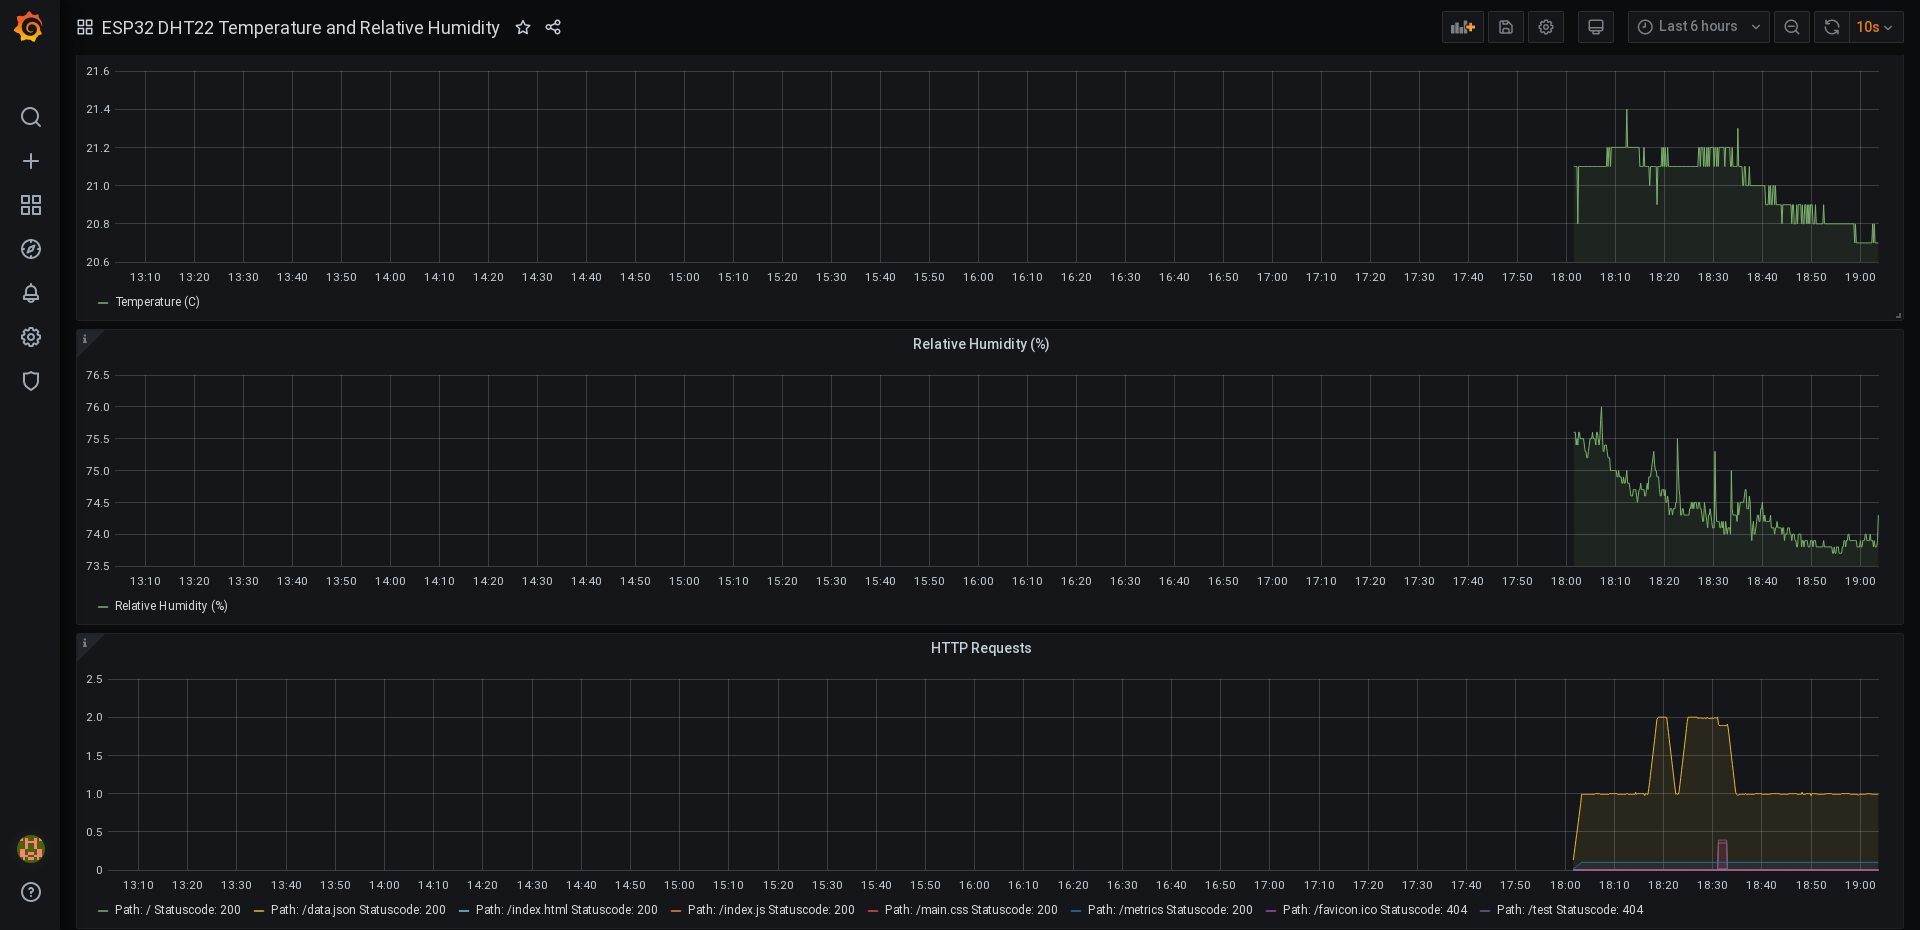
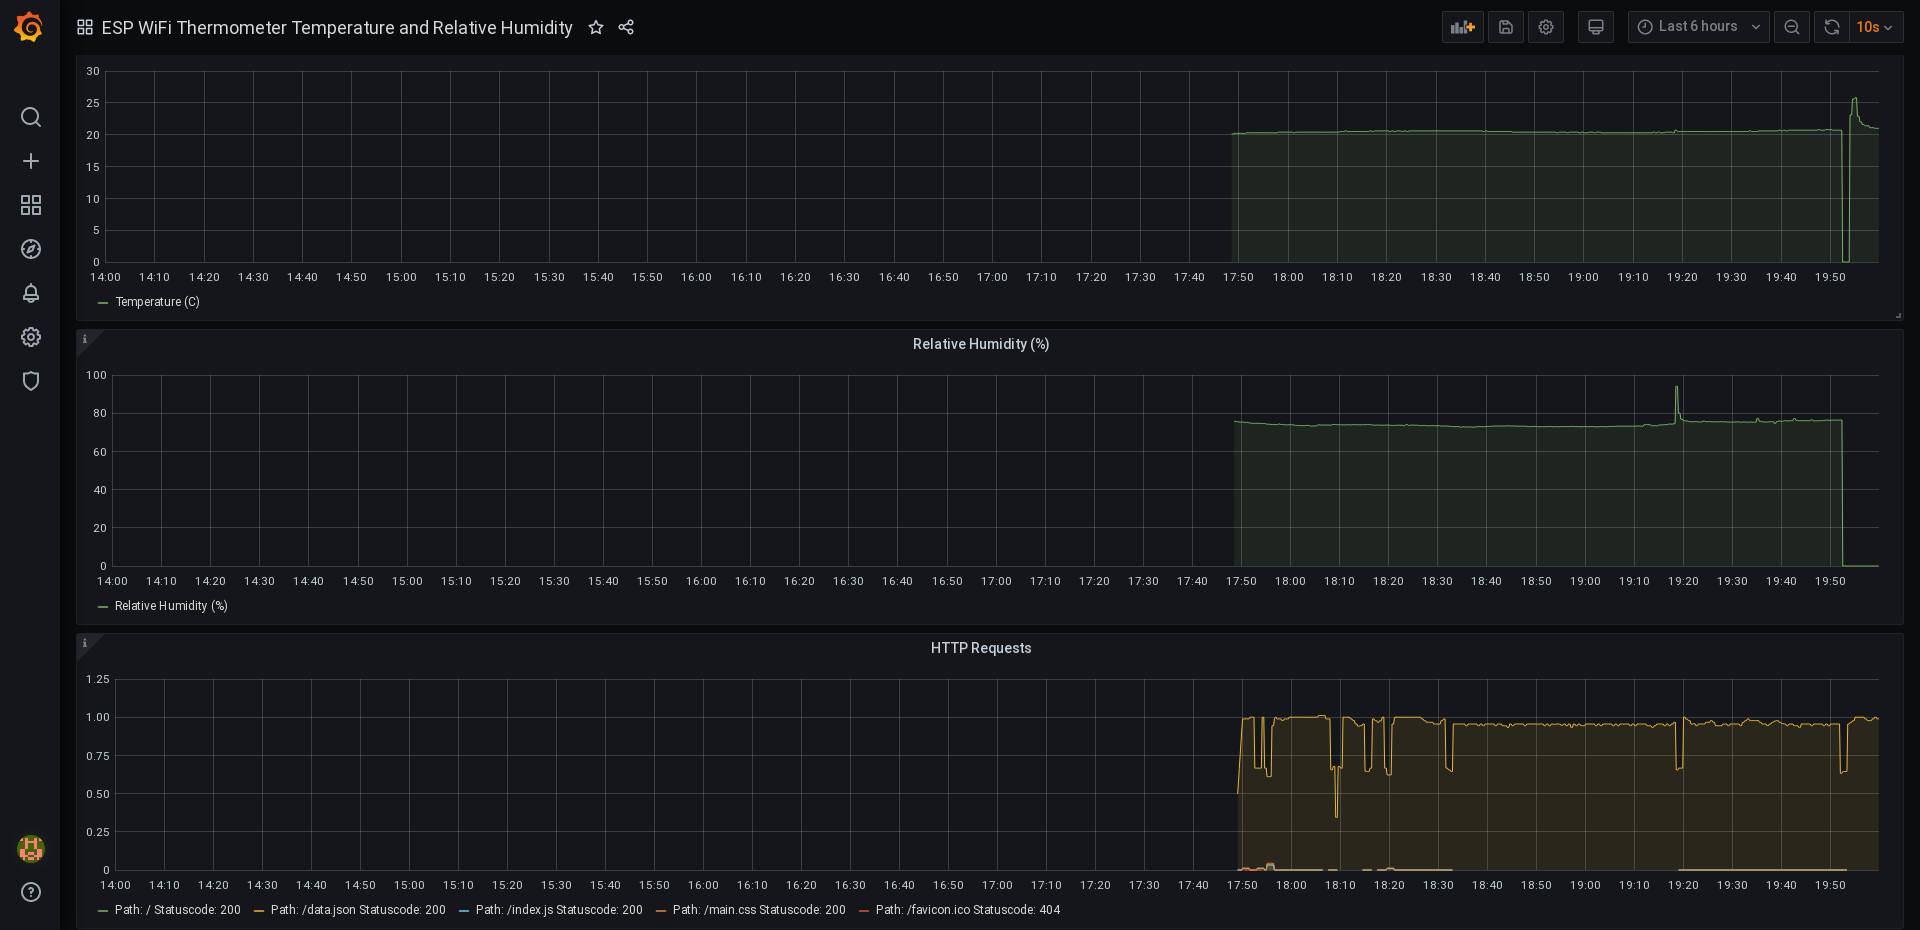
Rename to ESP-WiFi-Thermomether and add DS18B20 support

diff --git a/src/html/index.html b/src/html/index.html
@@ -3,15 +3,17 @@
 <head>
 <meta charset="utf-8">
 <meta name="author" content="ToMe25">
-<title>ESP32 DHT22 Server</title>
+<title>ESP WiFi Thermometer</title>
 <link rel="stylesheet" type="text/css" href="main.css">
 <script type="text/javascript" src="index.js"></script>
 </head>
 <body>
 	<div class="main">
-		<h1>Temperature: <span id="temp">$temp</span>°C</h1>
-		<h1>Humidity: <span id="humid">$humid</span>%</h1>
-		<h1>Time since Measurement: <time id="time" datetime=$time>$time</time></h1>
+		<h1>ESP WiFi Thermometer</h1>
+		<hr />
+		<h3>Temperature: <span id="temp">$temp</span>°C</h3>
+		<h3>Humidity: <span id="humid">$humid</span>%</h3>
+		<h3>Time since Measurement: <time id="time" datetime=$time>$time</time></h3>
 	</div>
 </body>
 </html>

diff --git a/src/html/main.css b/src/html/main.css
@@ -12,3 +12,12 @@ body {
 	margin: 5% 0;
 	font-size: 2em;
 }
+
+h1 {
+	margin: 0.3em 0;
+}
+
+h3 {
+	color: #3F3F48;
+	margin: 0.3em 0;
+}

diff --git a/src/main.cpp b/src/main.cpp
@@ -20,7 +20,12 @@
 IPAddress localhost = STATIC_IP;
 IPv6Address localhost_ipv6;
 AsyncWebServer server(WEB_SERVER_PORT);
-DHT dht(DHT_PIN, DHT_TYPE);
+#if SENSOR_TYPE == SENSOR_TYPE_DHT
+DHT dht(SENSOR_PIN, DHT_TYPE);
+#elif SENSOR_TYPE == SENSOR_TYPE_DALLAS
+OneWire wire(SENSOR_PIN);
+DallasTemperature sensors(&wire);
+#endif
 float temperature = 0;
 float humidity = 0;
 uint64_t last_measurement = 0;
@@ -31,7 +36,12 @@ uint64_t start = 0;
 void setup() {
 	start = millis();
 	Serial.begin(115200);
+
+#if SENSOR_TYPE == SENSOR_TYPE_DHT
 	dht.begin();
+#elif SENSOR_TYPE == SENSOR_TYPE_DALLAS
+	sensors.begin();
+#endif
 
 	setupWiFi();
 #if ENABLE_ARDUINO_OTA == 1
@@ -251,12 +261,17 @@ uint16_t getJson(AsyncWebServerRequest *request) {
 bool handle_serial_input(std::string input) {
 	if (input == "temperature" || input == "temp") {
 		Serial.println();
-		Serial.printf("Temperature: %f°C, %f°F\n", temperature,
-				dht.convertCtoF(temperature));
+		Serial.print("Temperature: ");
+		Serial.print(temperature);
+		Serial.print("°C, ");
+		Serial.print(celsiusToFahrenheit(temperature));
+		Serial.println("°F");
 		return true;
 	} else if (input == "humidity") {
 		Serial.println();
-		Serial.printf("Relative Humidity: %f%%\n", humidity);
+		Serial.print("Relative humidity: ");
+		Serial.print(humidity);
+		Serial.println('%');
 		return true;
 	} else if (input == "ip") {
 		Serial.println();
@@ -273,7 +288,7 @@ bool handle_serial_input(std::string input) {
 		return true;
 	} else if (input == "help") {
 		Serial.println();
-		Serial.println("ESP32-DHT22 help:");
+		Serial.println("ESP-WiFi-Thermometer help:");
 		Serial.println("temperature (or temp): Prints the last measured temperature in °C and °F.");
 		Serial.println("humidity:              Prints the relative humidity in %.");
 		Serial.println("ip:                    Prints the current IPv4 and IPv6 address of this device.");
@@ -294,10 +309,14 @@ void loop() {
 		if (loop_iterations % 20 == 0 && millis() - last_measurement < 10000) {
 			Serial.print("Temperature: ");
 			Serial.print(temperature);
-			Serial.println("°C");
-			Serial.print("Humidity: ");
-			Serial.print(humidity);
-			Serial.println('%');
+			Serial.print("°C, ");
+			Serial.print(celsiusToFahrenheit(temperature));
+			Serial.println("°F");
+			if (humidity != 0) {
+				Serial.print("Humidity: ");
+				Serial.print(humidity);
+				Serial.println('%');
+			}
 		}
 	}
 
@@ -341,10 +360,11 @@ void loop() {
 
 	loop_iterations++;
 	uint64_t end = millis();
-	delay(max(0, 500 - int16_t(start - end)));
+	delay(max(0, 500 - int16_t(end - start)));
 }
 
 void measure() {
+#if SENSOR_TYPE == SENSOR_TYPE_DHT
 	float temp = dht.readTemperature();
 	if (!isnan(temp)) {
 		temperature = temp;
@@ -358,6 +378,14 @@ void measure() {
 	if (!isnan(temp) && !isnan(humid)) {
 		last_measurement = millis();
 	}
+#elif SENSOR_TYPE == SENSOR_TYPE_DALLAS
+	sensors.requestTemperatures();
+	float temp = sensors.getTempCByIndex(0);
+	if (temp != DEVICE_DISCONNECTED_C) {
+		temperature = temp;
+		last_measurement = millis();
+	}
+#endif
 }
 
 #if ENABLE_WEB_SERVER == 1
@@ -396,3 +424,7 @@ void registerStaticHandler(const char *uri, const char *content_type,
 			});
 }
 #endif /* ENABLE_WEB_SERVER */
+
+float celsiusToFahrenheit(float celsius) {
+	return celsius * 1.8 + 32;
+}

diff --git a/src/config.h b/src/config.h
@@ -18,7 +18,7 @@
 // The hostname with which the esp can be reached.
 // This value is used for both the actual hostname, as well as the mDNS hostname(mDNS names end with .local).
 // While the normal hostname doesn't work with a static IP, mDNS still works.
-static constexpr char HOSTNAME[] = "esp32-dht22";
+static constexpr char HOSTNAME[] = "esp-wifi-thermometer";
 // The WiFi gateway IP.
 // Set to INADDR_NONE to use the standard gateway of the WLAN.
 // Usually your router.
@@ -32,19 +32,27 @@ static const IPAddress SUBNET = INADDR_NONE;
 static const IPAddress STATIC_IP = INADDR_NONE;
 
 // Web Server options
-// Whether or not to enable the web server on the esp32.
+// Whether or not to enable the web server on the esp.
 // Set to 1 to enable and to 0 to disable.
 #define ENABLE_WEB_SERVER 1
 // The port on which to open the web server that shows the measurements.
 // The default web server port is 80.
 static const uint16_t WEB_SERVER_PORT = 80;
 
-// DHT options
+// Sensor options
+// Valid sensor types
+#define SENSOR_TYPE_DHT 1
+#define SENSOR_TYPE_DALLAS 2
+// The type of sensor in use.
+// Supported values: SENSOR_TYPE_DHT and SENSOR_TYPE_DALLAS.
+#define SENSOR_TYPE SENSOR_TYPE_DHT
 // The type of DHT sensor in use.
+// Only used if SENSOR_TYPE is SENSOR_TYPE_DHT.
 // Valid types are 11, 12, 21, and 22.
 static const uint8_t DHT_TYPE = 22;
-// The gpio pin to which the data pin of the DHT is connected.
-static const uint8_t DHT_PIN = 5;
+// The gpio pin to which the data pin of the sensor is connected.
+// Default is 5.
+static const uint8_t SENSOR_PIN = 5;
 
 // Arduino OTA options
 // Whether to enable the Arduino OTA server.

diff --git a/src/main.h b/src/main.h
@@ -13,6 +13,9 @@
 
 #include "config.h"
 #include <ESPAsyncWebServer.h>
+// It would be possible to always only include one, but that makes it a pain when switching between them.
+// Especially when doing it repeatedly for testing.
+#include <DallasTemperature.h>
 #include <DHT.h>
 
 // includes the content of the file "wifissid.txt" in the project root.
@@ -39,8 +42,13 @@ extern IPv6Address localhost_ipv6;
 // Web Server variables
 extern AsyncWebServer server;
 
-//DHT22 variables
+//Sensor variables
+#if SENSOR_TYPE == SENSOR_TYPE_DHT
 extern DHT dht;
+#elif SENSOR_TYPE == SENSOR_TYPE_DALLAS
+extern OneWire wire;
+extern DallasTemperature sensors;
+#endif
 
 extern float temperature;
 extern float humidity;
@@ -122,5 +130,13 @@ void registerRequestHandler(const char *uri, WebRequestMethodComposite method,
 void registerStaticHandler(const char *uri, const char *content_type,
 		const char *page);
 #endif /* ENABLE_WEB_SERVER */
+
+/**
+ * Converts the given temperature from degrees celsius to degrees fahrenheit.
+ *
+ * @param celsius	The temperature to convert in celsius.
+ * @return	The converted temperature in fahrenheit.
+ */
+float celsiusToFahrenheit(float celsius);
 
 #endif /* SRC_MAIN_H_ */

diff --git a/src/prometheus.cpp b/src/prometheus.cpp
@@ -61,17 +61,17 @@ void prom::connect() {
 
 std::string prom::getMetrics() {
 	std::ostringstream metrics;
-	metrics << "# HELP environment_temperature The current external temperature measured using a DHT22."
+	metrics << "# HELP environment_temperature The current measured external temperature in degrees celsius."
 			<< std::endl;
 	metrics << "# TYPE environment_temperature gauge" << std::endl;
 	metrics << "environment_temperature " << std::setprecision(3) << temperature << std::endl;
 
-	metrics << "# HELP environment_humidity The current external relative humidity measured using a DHT22."
+	metrics << "# HELP environment_humidity The current measured external relative humidity in percent."
 			<< std::endl;
 	metrics << "# TYPE environment_humidity gauge" << std::endl;
 	metrics << "environment_humidity " << std::setprecision(3) << humidity << std::endl;
 
-	metrics << "# HELP process_heap_bytes The amount of heap used on the ESP32 in bytes."
+	metrics << "# HELP process_heap_bytes The amount of heap used on the ESP in bytes."
 			<< std::endl;
 	metrics << "# TYPE process_heap_bytes gauge" << std::endl;
 	metrics << "process_heap_bytes " << used_heap << std::endl;

diff --git a/README.md b/README.md
@@ -1,38 +1,52 @@
 # Description
-This project measures the temperature and relative humidity using a DHT22 and shows it on a simple web interface.  
-The web interface updates itself every 2 seconds(the max refresh rate possible with a single DHT22) using a small javascript.  
-This is done by querying /data.json on the esp and replacing the shown values using that.  
+A program to measure the current temperature(and relative humidity, if supported by the sensor) using an ESP32.  
+This program shows the measurements on a simple web interface.  
+This web interface updates its values every 2 seconds using javascript.  
 A screenshot of the web interface:  
-![web interface](https://raw.githubusercontent.com/ToMe25/ESP32-DHT22/master/images/web_interface.png)
+![web interface](https://raw.githubusercontent.com/ToMe25/ESP-WiFi-Thermometer/master/images/web_interface.png)
+
+# Hardware support
+A list of supported microcontrollers and temperature sensors.
+
+## Microcontrollers
+A list of supported microcontrollers.
+ * ESP32devkitc
+
+## Temperature sensors
+A list of supported temperature sensors along with their required pull up resistor.  
+Format: Sensor(Pull Up Resistor)
+ * DHT22(10ḲΩ)
+ * DS18B20(4.7KΩ)
 
 # Requirements
  1. ESP32-devkitc
- 2. DHT22
- 3. 10KΩ Resistor
+ 2. A supported temperature sensor
+ 3. The Pull Up Resistor for said sensor
  4. USB-Micro-B tp USB-A cable
  5. PC with a working [platformio](https://platformio.org/) installation
 
 # Getting Started
-These are the steps required to use this project and flash it onto an ESP32.
- * Attach the DHT22 to the ESP32 like this:
+The steps to compile this project and flash it onto an esp.  
 
-|ESP32 Pin     |DHT22 Pin|
-|--------------|---------|
-|5V            |VCC      |
-|5V(10KΩ),GPIO5|Data     |
-|GND           |GND      |
+ * Connect your esp to your temperature sensor. Wiring for the DHT22:
 
- * Attach the ESP32 to your PC using a USB-Micro-B tp USB-A cable.
+    |ESP Pin       |DHT22 Pin|
+    |--------------|---------|
+    |5V            |VCC      |
+    |5V(10KΩ),GPIO5|Data     |
+    |GND           |GND      |
+
  * Create a wifissid.txt file containing the SSID of the wifi to connect to.
  * Create a wifipass.txt file containing the Passphrase for the wifi to connect to.
  * Create a otapass.txt file containing the password for [ArduinoOta](https://www.arduino.cc/reference/en/libraries/arduinoota/), allowing your to upload modified versions over wifi.
  * Make sure these three files don't end with an empty line.
+ * Attach the ESP to your PC using a USB-Micro-B tp USB-A cable.
  * Build this project and flash it to the ESP32 by running `pio run -t upload -e esp32dev` to upload over the cable connection.
- * To upload over WiFi after this project is installed run `pio run -t upload -e ota`.
+ * To upload over WiFi after this project is installed run `pio run -t upload -e esp32dev_ota`.
  * Run `pio device monitor` to open a serial connection.
- * Wait a few seconds for the ESP32 to finish booting.
+ * Wait a few seconds for the ESP to finish booting.
  * Enter `ip` and press return to get the device ip.
- * Enter the IPv4 ip(probably 192.168.xxx.xxx) returned by this into your browser to see the web interface, showing your current temperature and relative humidity.
+ * Enter the IPv4 ip(for example 192.168.2.101) returned by this into your browser to see the web interface, showing your current temperature and relative humidity.
 
 # Prometheus integration
 This project is designed to work with [prometheus](https://prometheus.io/) either using through providing a metrics page to scrape, or by pushing to a [prometheus-pushgateway](https://github.com/prometheus/pushgateway).  
@@ -63,4 +77,4 @@ After following either set of instructions to enable [prometheus](https://promet
  * Click "Import".
 
 A screenshot of the grafana dasboard:  
-![dashboard](https://raw.githubusercontent.com/ToMe25/ESP32-DHT22/master/images/grafana_dashboard.png)
+![dashboard](https://raw.githubusercontent.com/ToMe25/ESP-WiFi-Thermometer/master/images/grafana_dashboard.png)

diff --git a/TODO.md b/TODO.md
@@ -9,6 +9,7 @@ Not all of these are necessarily going to be implemented at all.
 ## Web Interface
  * Add error message to log and web interface if measurement fails
  * Add a javescript temperature and humidity graph to the web interface?
+ * Remove not measured values(for example humidity for the DS18B20)
 
 ## Integration
  * Find a way to make the kubernetes service(for prometheus) automatically point to the esp(mDNS?)
